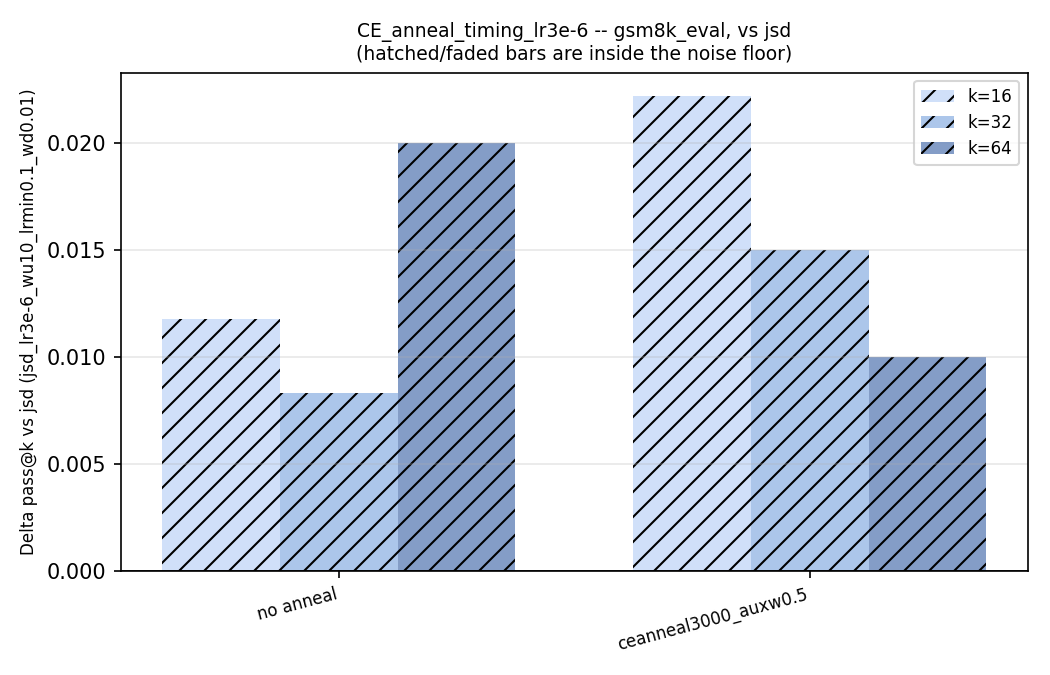
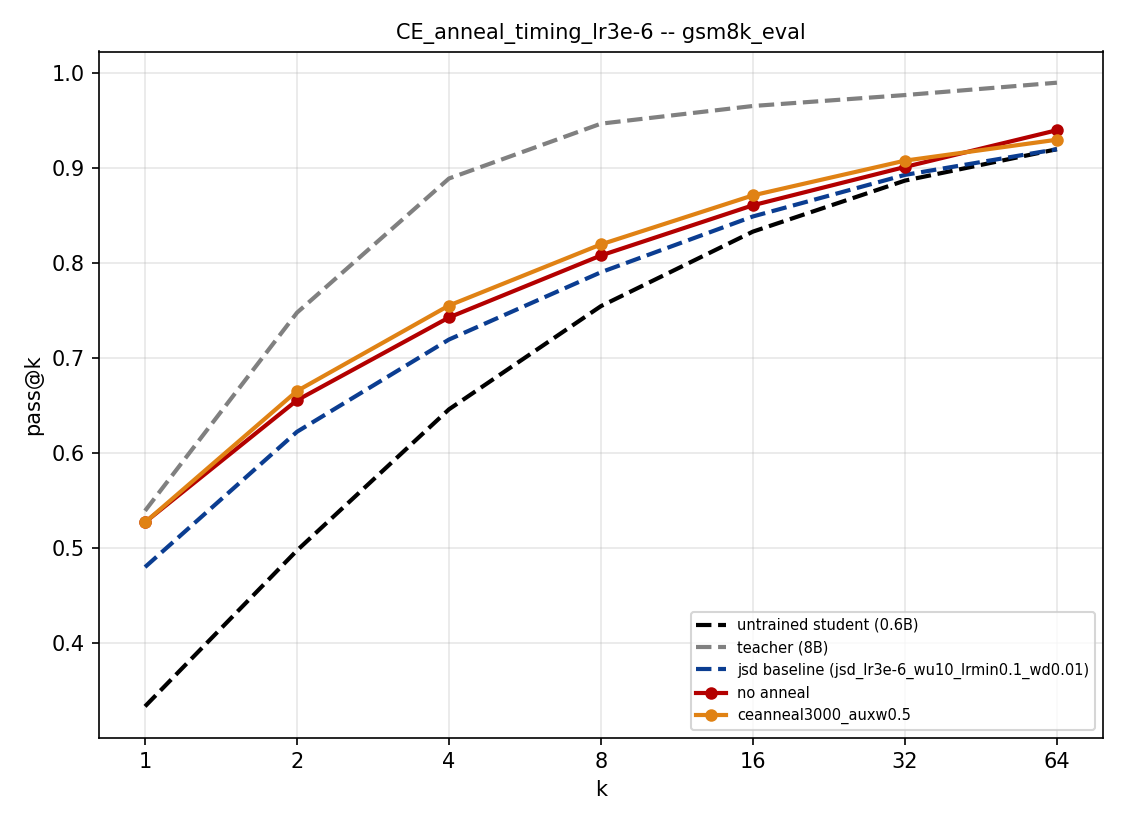
docs(passk): ablation charts as pass@k curves, not delta bars; link dapo charts
Rewrites plot_ablation_families.py to draw ordinary pass@k-vs-k line curves
(student/teacher/jsd as dashed reference lines, family variants as solid
lines) zoomed to each family's own checkpoints, same style as the existing
dataset-level charts, instead of grouped delta bars with noise-floor
hatching. Same six PNGs, same filenames, so table links are unchanged.
Replaces the "see dapo charts above" placeholder in the dataset ablation row
with the actual three chart links.

diff --git a/scripts/plot_ablation_families.py b/scripts/plot_ablation_families.py
@@ -1,64 +1,56 @@
 #!/usr/bin/env python
 """
-plot_ablation_families.py -- one grouped-bar chart per ablation family in
-notes/passk_prob_vs_jsd_research_note.md's "Ablations tested" table. Each
-chart: x = variant, grouped bars = Delta(variant - jsd) at k16/k32/k64 on
-gsm8k_eval (the dataset where any of these ever beats jsd beyond noise),
-with the derived noise-floor band shaded so bars inside it read as
-not-significant.
-
-Noise floor = 2 x std(pass@k) across the flat low-LR NOISE_CLUSTER_PROB
-checkpoints, same method and same cluster as analyze_passk_movement.py,
-just extended to k=16/32/64 here (that script only covers k up to 16).
+plot_ablation_families.py -- one pass@k-vs-k line chart per ablation family in
+notes/passk_prob_vs_jsd_research_note.md's "Ablations tested" table. Same
+style as plot_passk_curves_all.py (x=k log scale, student/teacher as bold
+dashed reference lines) but zoomed in to only that family's variants plus its
+jsd baseline, instead of all 38 checkpoints.
 
 USAGE:
     python scripts/plot_ablation_families.py
 """
 import csv
 import os
-import statistics
 
 import matplotlib
 matplotlib.use("Agg")
 import matplotlib.pyplot as plt
 
 DATASET = "gsm8k_eval.jsonl"
-KS = [16, 32, 64]
+ALL_K = [1, 2, 4, 8, 16, 32, 64]
 
-NOISE_CLUSTER_PROB = [
-    "po_prob_lr1e-6_wu20", "po_prob_lr3e-6_wu20", "po_prob_lr7e-6_wu20",
-    "po_prob_lr1e-5_wu20_lrmin0.1_wd0.01",
-]
 JSD_LR1E5 = "jsd_lr1e-5_wu10_lrmin0.1_wd0.01"
 JSD_LR3E6 = "jsd_lr3e-6_wu10_lrmin0.1_wd0.01"
 
-# (family title, jsd baseline for this family, [(variant label, checkpoint frag), ...])
+COLORS = ["#b30000", "#e08214", "#1a9850", "#762a83"]
+
+# (family title, jsd baseline label+frag, [(variant label, checkpoint frag), ...])
 FAMILIES = [
-    ("grad_clip", JSD_LR1E5, [
+    ("grad_clip", ("jsd", JSD_LR1E5), [
         ("clip=10", "po_prob_gradclip10_lr1e-5_wu20"),
         ("clip=100", "po_prob_gradclip100_lr1e-5_wu20"),
         ("clip=1000", "po_prob_gradclip1000_lr1e-5_wu20"),
     ]),
-    ("M_samples_per_root", JSD_LR3E6, [
+    ("M_samples_per_root", ("jsd", JSD_LR3E6), [
         ("M=4 (default)", "po_prob_lr3e-6_wu20"),
         ("M=8", "po_prob_M8_lr3e-6_wu20"),
         ("M=16 (warm)", "po_prob_M16_lr3e-6_wu20"),
         ("M=16 (cold)", "po_prob_M16_lr3e-6_wu20_cold"),
     ]),
-    ("teacher_temp", JSD_LR1E5, [
+    ("teacher_temp", ("jsd", JSD_LR1E5), [
         ("ttemp=1.0 (default)", "po_prob_lr1e-5_wu20_lrmin0.1_wd0.01"),
         ("ttemp=0.7", "po_prob_ttemp0.7_lr1e-5_wu20"),
         ("ttemp=0.5", "po_prob_ttemp0.5_lr1e-5_wu20"),
     ]),
-    ("CE_anneal_timing_lr3e-6", JSD_LR3E6, [
+    ("CE_anneal_timing_lr3e-6", ("jsd", JSD_LR3E6), [
         ("no anneal", "po_prob_lr3e-6_wu20"),
         ("ceanneal3000_auxw0.5", "po_prob_ceanneal3000_auxw0.5_lr3e-6_wu20"),
     ]),
-    ("root_spacing_offset", JSD_LR1E5, [
+    ("root_spacing_offset", ("jsd", JSD_LR1E5), [
         ("N=16 fixed", "po_prob_multiroot_N16_lr1e-5_wu20"),
         ("N=16 random offset", "po_prob_multiroot_N16_randoff_lr1e-5_wu20"),
     ]),
-    ("N_root_spacing", JSD_LR1E5, [
+    ("N_root_spacing", ("jsd", JSD_LR1E5), [
         ("N=8", "po_prob_multiroot_N8_lr1e-5_wu20"),
         ("N=16", "po_prob_multiroot_N16_lr1e-5_wu20"),
         ("N=16 random offset", "po_prob_multiroot_N16_randoff_lr1e-5_wu20"),
@@ -72,56 +64,56 @@ def load_csv(path):
         return list(csv.DictReader(f))
 
 
-def passk_at(rows, frag, dataset, k):
+def passk_at_frag(rows, frag, dataset, k):
     for r in rows:
         if frag in r["model"] and r["dataset"] == dataset and int(r["k"]) == k:
             return float(r["pass_at_k"])
     return None
 
 
-def derive_noise_floor(rows, dataset, ks):
-    floor = {}
-    for k in ks:
-        vals = [v for v in (passk_at(rows, f, dataset, k) for f in NOISE_CLUSTER_PROB) if v is not None]
-        floor[k] = round(2 * statistics.stdev(vals), 4) if len(vals) >= 3 else 0.05
-    return floor
+def passk_at_exact(rows, name, dataset, k):
+    for r in rows:
+        if r["model"] == name and r["dataset"] == dataset and int(r["k"]) == k:
+            return float(r["pass_at_k"])
+    return None
 
 
 def main():
     rows = load_csv("results/passK/passk_hparam_sweep.csv")
+    base = load_csv("results/passK/passk_baselines.csv")
     outdir = "results/passK"
     os.makedirs(outdir, exist_ok=True)
-    floor = derive_noise_floor(rows, DATASET, KS)
-    print(f"noise floor on {DATASET} at k={KS}: {floor}")
 
-    for title, jsd_frag, variants in FAMILIES:
-        labels, deltas = [], {k: [] for k in KS}
-        for label, frag in variants:
-            for k in KS:
-                v = passk_at(rows, frag, DATASET, k)
-                j = passk_at(rows, jsd_frag, DATASET, k)
-                deltas[k].append(None if (v is None or j is None) else v - j)
-            labels.append(label)
+    student = [passk_at_exact(base, "Qwen/Qwen3-0.6B", DATASET, k) for k in ALL_K]
+    teacher = [passk_at_exact(base, "Qwen/Qwen3-8B", DATASET, k) for k in ALL_K]
 
-        fig, ax = plt.subplots(figsize=(7, 4.5))
-        x = range(len(labels))
-        width = 0.25
-        colors = {16: "#a3c2f4", 32: "#5b8fd6", 64: "#0b3d91"}
-        for i, k in enumerate(KS):
-            xs = [xi + (i - 1) * width for xi in x]
-            ys = [d if d is not None else 0 for d in deltas[k]]
-            bars = ax.bar(xs, ys, width=width, color=colors[k], label=f"k={k}")
-            for b, d in zip(bars, deltas[k]):
-                if d is not None and abs(d) <= floor[k]:
-                    b.set_hatch("//")
-                    b.set_alpha(0.5)
-        ax.axhline(0, color="black", linewidth=0.8)
-        ax.set_xticks(list(x))
-        ax.set_xticklabels(labels, rotation=15, ha="right", fontsize=8)
-        ax.set_ylabel(f"Delta pass@k vs jsd ({jsd_frag})", fontsize=8)
-        ax.set_title(f"{title} -- gsm8k_eval, vs jsd\n(hatched/faded bars are inside the noise floor)", fontsize=9)
-        ax.legend(fontsize=8)
-        ax.grid(axis="y", alpha=0.3)
+    for title, (jsd_label, jsd_frag), variants in FAMILIES:
+        jsd_ys = [passk_at_frag(rows, jsd_frag, DATASET, k) for k in ALL_K]
+
+        fig, ax = plt.subplots(figsize=(7.5, 5.5))
+        ax.plot(ALL_K, student, "--", color="black", linewidth=2, zorder=3,
+                label="untrained student (0.6B)")
+        ax.plot(ALL_K, teacher, "--", color="gray", linewidth=2, zorder=3,
+                label="teacher (8B)")
+        ax.plot(ALL_K, jsd_ys, "--", color="#0b3d91", linewidth=2, zorder=4,
+                label=f"{jsd_label} baseline ({jsd_frag})")
+
+        for i, (label, frag) in enumerate(variants):
+            ys = [passk_at_frag(rows, frag, DATASET, k) for k in ALL_K]
+            if any(y is None for y in ys):
+                print(f"  [skip] {title}: {frag} missing data on {DATASET}")
+                continue
+            ax.plot(ALL_K, ys, "-o", color=COLORS[i % len(COLORS)], linewidth=2,
+                     markersize=5, zorder=5, label=label)
+
+        ax.set_xscale("log", base=2)
+        ax.set_xticks(ALL_K)
+        ax.set_xticklabels([str(k) for k in ALL_K])
+        ax.set_xlabel("k")
+        ax.set_ylabel("pass@k")
+        ax.set_title(f"{title} -- {DATASET.replace('.jsonl', '')}", fontsize=10)
+        ax.grid(alpha=0.3, which="both")
+        ax.legend(fontsize=7, loc="lower right")
         fig.tight_layout()
         path = os.path.join(outdir, f"ablation_{title}.png")
         fig.savefig(path, dpi=150)

diff --git a/notes/passk_prob_vs_jsd_research_note.md b/notes/passk_prob_vs_jsd_research_note.md
@@ -77,8 +77,10 @@ below is shorthand for: that config's pass@k gap vs jsd on `gsm8k_eval` is
 bigger than the noise floor at the k's where it's reported.
 
 Deltas below are vs jsd on `gsm8k_eval` at k16/k32/k64, noise floor derived
-per k from the flat low-LR `prob` cluster (2×std): 0.031/0.027/0.034.
-Charts: [scripts/plot_ablation_families.py](../scripts/plot_ablation_families.py).
+per k from the flat low-LR `prob` cluster (2×std): 0.031/0.027/0.034. Charts
+are pass@k-vs-k curves, same style as the dataset charts above, zoomed in to
+each family's own variants plus its jsd baseline (not all 38 checkpoints):
+[scripts/plot_ablation_families.py](../scripts/plot_ablation_families.py).
 
 | variable | values tested | effect on pass@k | chart |
 |---|---|---|---|
@@ -87,7 +89,7 @@ Charts: [scripts/plot_ablation_families.py](../scripts/plot_ablation_families.py
 | teacher_temp | 1.0 (default), 0.7, 0.5 | **the default beats jsd by the widest margin of the three (+0.038/+0.035/+0.040 at k16/32/64), `ttemp=0.5` also clears (+0.033/+0.027/+0.030), `ttemp=0.7` doesn't (+0.013/+0.018/+0.020, inside the floor).** With the default actually included, there's no support for "lowering teacher_temp helps" — the unmodified default is the strongest point, not the weakest. One confound: the default checkpoint used here also differs in `lr_min_ratio`/`weight_decay` from the two ttemp points (0.1/0.01 vs their bare CLI defaults), so this isn't a perfectly clean single-axis read, just the closest match available in the sweep. | [chart](../results/passK/ablation_teacher_temp.png) |
 | CE-anneal timing (lr=3e-6) | anneal vs no-anneal | both beat jsd beyond noise on `gsm8k` k32 similarly; anneal doesn't move the needle at this LR | [chart](../results/passK/ablation_CE_anneal_timing_lr3e-6.png) |
 | root spacing offset | fixed vs random | negligible vs plain N=16 | [chart](../results/passK/ablation_root_spacing_offset.png) |
-| dataset | `math_hard` vs `dapo_math_train` | changes *which* dataset the prob-jsd gap beats noise on — real, not noise | see dapo charts above |
+| dataset | `math_hard` vs `dapo_math_train` | changes *which* dataset the prob-jsd gap beats noise on — real, not noise | [math_eval](../results/passK/passk_dapo_jsd_vs_prob_math_eval.png) · [gsm8k_eval](../results/passK/passk_dapo_jsd_vs_prob_gsm8k_eval.png) · [olympiad_eval](../results/passK/passk_dapo_jsd_vs_prob_olympiad_eval.png) |
 | N (root spacing) | 8, 16, 16+offset, 32 | N=16/16+offset/32 beat jsd beyond noise on `gsm8k` k32/k64; **N=8 doesn't beat it anywhere** | [chart](../results/passK/ablation_N_root_spacing.png) |
 
 ## Multi-root: two different ways to build the continuation at each root
